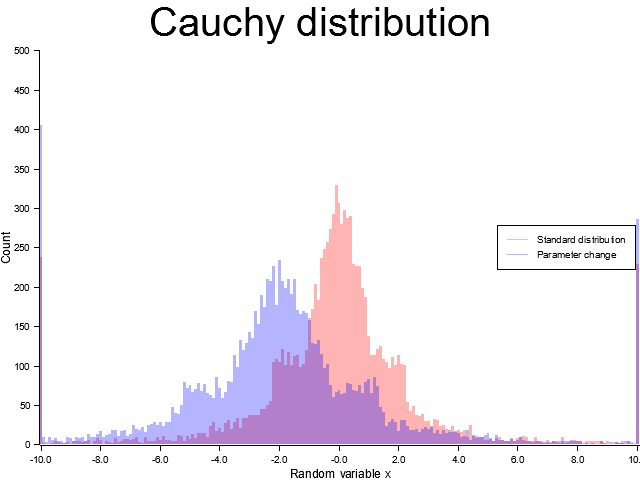
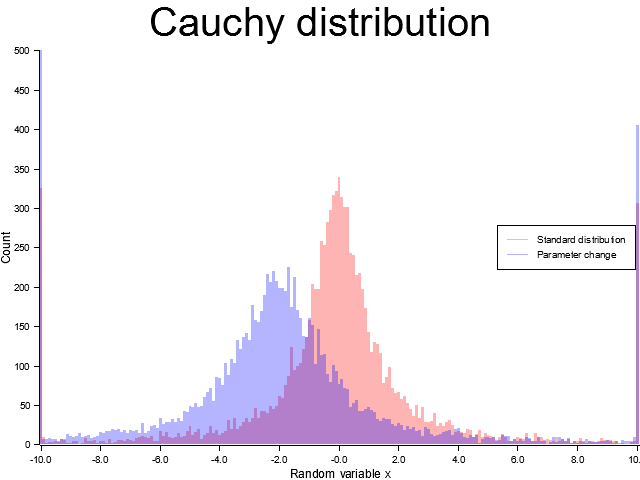
0.2.1e (破壊的変更) コーシー分布の乱数の種を1個に変更(逆関数法)

diff --git a/src/standard_distributions.rs b/src/standard_distributions.rs
@@ -115,58 +115,14 @@ fn standard_normal_foot(xyzuv0: &mut [u32; 5], xyzuv1: &mut [u32; 5]) -> f64 {
     }
 }
 
-// コーシー分布の定数
-const B_CAUCHY: f64 = 4.766_f64;
-const D_CAUCHY: f64 = 0.00000320169_f64; // 1/ (b(2^(m/2) - 2))
-                                         //const A_CAUCHY: f64 = 1.42622923652_f64; // √(2b/π - 1)
-const K_CAUCHY: u32 = 30783_u32; // floor( (2^(m/2) - 1) * a / b )
-const W_CAUCHY: f64 = 0.00007272449_f64; // b / (2^(m/2) - 1)
-const S_CAUCHY: f64 = 0.42704405108_f64; // a / (b - a)
-const P_CAUCHY: f64 = 2.34167879747_f64; // 1 / s
-const Q_CAUCHY: f64 = 0.35057477942_f64; // (1 + p) / (2b)
-const T_CAUCHY: f64 = 1.36397696_f64; // arctan(b)
-const V_CAUCHY: f64 = 0.20681936679_f64; // arctan(b)
-const HALF_BIT_CAUCHY: u32 = 65535_u32; // 2^(m/2) - 1
 /// 標準正コーシー分布
-/// アルゴリズム 3.30: Monty Python法
+/// アルゴリズム　3.26: (逆関数法)
 #[inline]
-pub(crate) fn standard_cauchy(xyzuv0: &mut [u32; 5], xyzuv1: &mut [u32; 5]) -> f64 {
-    // step 1: m bit符号無整数型の一様乱数の生成
-    let u_mbit_integer: u32 = xorshift160(xyzuv0);
-    // step 2: 乱数の符号を最下位ビットで計算する
-    let sign: f64 = if (u_mbit_integer & 1_u32) == 1_u32 {
-        1_f64
-    } else {
-        -1_f64
-    };
-    // 1ビット右シフトしたものを準備する
-    let u_m_1: u32 = u_mbit_integer >> 1_u32;
-    // step 3: (m/2) bitとの論理積を計算する
-    let u_half_m_integer: u32 = u_m_1 & HALF_BIT_CAUCHY;
-    // step 4: u_x = u_half_m_integer * W;
-    let u_x: f64 = u_half_m_integer as f64 * W_CAUCHY;
-    // step 5: u_half_m_integer < K の場合、y = sign * u_x を返す
-    if u_half_m_integer < K_CAUCHY {
-        sign * u_x
-    } else {
-        // step 6: u_m_1 をさらに右に(m/2)ビットシフトする
-        let u_half_m_1 = u_m_1 >> 16_u32;
-        // step 7: u_y
-        let u_y: f64 = D_CAUCHY * u_half_m_1 as f64;
-        // step 8: π(1 + u_x^2)u_y < 1 のとき、y = sign * u_x を返す
-        if std::f64::consts::PI * (1_f64 + u_x.powi(2)) * u_y < 1_f64 {
-            sign * u_x
-        } else {
-            // step 9: yの計算と分岐
-            let y: f64 = sign * S_CAUCHY * (B_CAUCHY - u_x);
-            if std::f64::consts::PI * (1_f64 + y.powi(2)) * (Q_CAUCHY - P_CAUCHY * u_y) < 1_f64 {
-                y
-            } else {
-                // step 10: 裾野?
-                sign * (T_CAUCHY + V_CAUCHY * xorshift160_0_open_1_open(xyzuv1)).tan()
-            }
-        }
-    }
+pub(crate) fn standard_cauchy(xyzuv0: &mut [u32; 5]) -> f64 {
+    // step 1: 開区間 (0, 1) の一様乱数
+    let u = xorshift160_0_open_1_open(xyzuv0);
+    // step 2: 標準分布を計算する
+    (std::f64::consts::PI * (u - 0.5_f64)).tan()
 }
 
 /// 標準指数分布

diff --git a/src/lib.rs b/src/lib.rs
@@ -139,7 +139,7 @@ pub struct LogNormal {
 /// コーシー分布
 /// # 使用例
 /// ```
-/// let mut cauchy = rand_simple::Cauchy::new([1192u32, 765u32]);
+/// let mut cauchy = rand_simple::Cauchy::new(1192_u32);
 /// println!("位置母数 μ = 0, 尺度母数 θ = 1 の標準コーシー分布に従う乱数を生成する -> {}", cauchy.sample());
 ///
 /// // 確率変数のパラメータを変更する場合
@@ -149,16 +149,15 @@ pub struct LogNormal {
 /// println!("位置母数 μ = {}, 尺度母数 θ = {} のコーシー分布に従う乱数を生成する -> {}", location, scale, cauchy.sample());
 /// ```
 pub struct Cauchy {
-    xyzuv0: [u32; 5], // 状態変数
-    xyzuv1: [u32; 5], // 状態変数
-    location: f64,    // 位置母数
-    scale: f64,       // 尺度母数
+    xyzuv: [u32; 5], // 状態変数
+    location: f64,   // 位置母数
+    scale: f64,      // 尺度母数
 }
 
 /// 半コーシー分布
 /// # 使用例
 /// ```
-/// let mut half_cauchy = rand_simple::HalfCauchy::new([1192u32, 765u32]);
+/// let mut half_cauchy = rand_simple::HalfCauchy::new(1192_u32);
 /// println!("尺度母数 θ = 1 の標準半コーシー分布に従う乱数を生成する -> {}", half_cauchy.sample());
 ///
 /// // 確率変数のパラメータを変更する場合
@@ -167,9 +166,8 @@ pub struct Cauchy {
 /// println!("尺度母数 θ = {} の半コーシー分布に従う乱数を生成する -> {}", scale, half_cauchy.sample());
 /// ```
 pub struct HalfCauchy {
-    xyzuv0: [u32; 5], // 状態変数
-    xyzuv1: [u32; 5], // 状態変数
-    scale: f64,       // 尺度母数
+    xyzuv: [u32; 5], // 状態変数
+    scale: f64,      // 尺度母数
 }
 
 /// レヴィ分布

diff --git a/src/distributions/cauchy.rs b/src/distributions/cauchy.rs
@@ -4,11 +4,9 @@ use crate::{create_state, Cauchy};
 impl Cauchy {
     /// コンストラクタ
     /// * `seeds` - 乱数の種。同じ値にならないようにコンストラクタ側で調整する。
-    pub fn new(seeds: [u32; 2]) -> Self {
-        let adjusted_seeds = crate::adjust_seeds!(seeds);
+    pub fn new(_seed: u32) -> Self {
         Self {
-            xyzuv0: create_state(adjusted_seeds[0]),
-            xyzuv1: create_state(adjusted_seeds[1]),
+            xyzuv: create_state(_seed),
             location: 0_f64,
             scale: 1_f64,
         }
@@ -16,7 +14,7 @@ impl Cauchy {
 
     /// 乱数を計算する
     pub fn sample(&mut self) -> f64 {
-        standard_cauchy(&mut self.xyzuv0, &mut self.xyzuv1) * self.scale + self.location
+        standard_cauchy(&mut self.xyzuv) * self.scale + self.location
     }
 
     /// 確率変数のパラメータを変更する

diff --git a/src/distributions/half_cauchy.rs b/src/distributions/half_cauchy.rs
@@ -4,18 +4,16 @@ use crate::{create_state, HalfCauchy};
 impl HalfCauchy {
     /// コンストラクタ
     /// * `seeds` - 乱数の種。同じ値にならないようにコンストラクタ側で調整する。
-    pub fn new(seeds: [u32; 2]) -> Self {
-        let adjusted_seeds = crate::adjust_seeds!(seeds);
+    pub fn new(_seed: u32) -> Self {
         Self {
-            xyzuv0: create_state(adjusted_seeds[0]),
-            xyzuv1: create_state(adjusted_seeds[1]),
+            xyzuv: create_state(_seed),
             scale: 1_f64,
         }
     }
 
     /// 乱数を計算する
     pub fn sample(&mut self) -> f64 {
-        standard_cauchy(&mut self.xyzuv0, &mut self.xyzuv1).abs() * self.scale
+        standard_cauchy(&mut self.xyzuv).abs() * self.scale
     }
 
     /// 確率変数のパラメータを変更する

diff --git a/examples/half_cauchy.rs b/examples/half_cauchy.rs
@@ -16,7 +16,7 @@ fn main() -> Result<(), Box<dyn std::error::Error>> {
         .y_label_area_size(40)
         .caption(CAPTION, ("sans-serif", 50.0))
         .build_cartesian_2d(
-            (0_f64..100_f64).step(0.1_f64).use_round().into_segmented(),
+            (0_f64..20_f64).step(0.1_f64).use_round().into_segmented(),
             0u32..700u32,
         )?;
     // 軸の設定
@@ -32,7 +32,7 @@ fn main() -> Result<(), Box<dyn std::error::Error>> {
         .unwrap();
 
     // 乱数生成器
-    let mut generator = rand_simple::HalfCauchy::new([1192_u32, 765_u32]);
+    let mut generator = rand_simple::HalfCauchy::new(1192_u32);
 
     // 標準分布
     println!("Initial state\n{}\n", generator);
